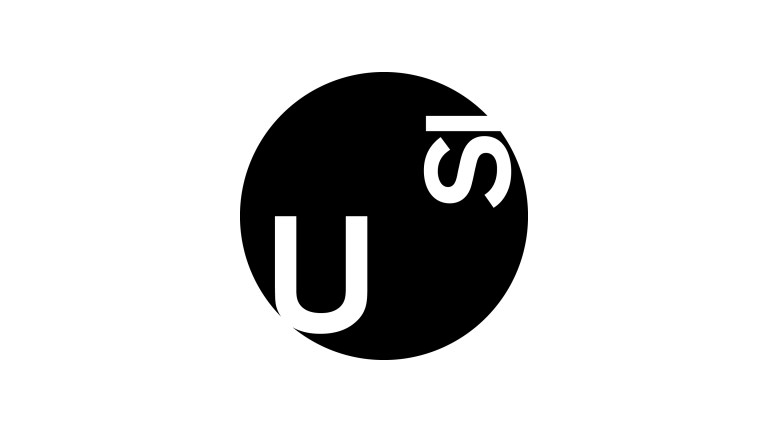
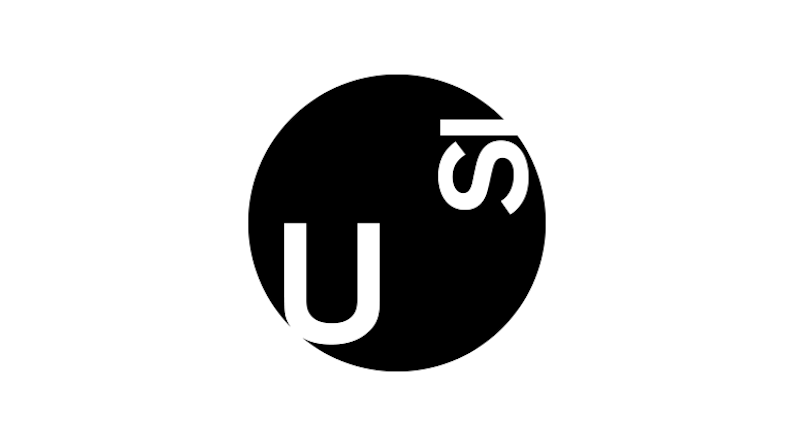
Added career-step by UNIGE. Resized images in career page.

diff --git a/src/pages/career/Career.js b/src/pages/career/Career.js
@@ -6,16 +6,31 @@ import BPParagraph from "../../components/paragraph/BPParagraph";
 import './Career.css';
 import {Image, Row, Col} from "react-bootstrap";
 
-import CPC from './img/cpc.jpg'
 import Army from './img/army.png'
 import SUPSI from './img/supsi.png'
 import USI from './img/usi.png'
+import UNIGE from './img/unige.png'
 
 class Career extends React.Component {
 
     render() {
         return (
             <div>
+                <div className={"career-step"}>
+                    <Row>
+                        <Col className={"text-center"}>
+                            <Image src={UNIGE} fluid/>
+                        </Col>
+                    </Row>
+                    <BPTitle className={"bp-title-career"}
+                             text={"Ph.D. Student in Machine Learning (2021-)"}/>
+                    <BPParagraph size={"150%"}
+                                 text={
+                                     "Starting on November 1st, 2021, I will join the Stochastic Information Processing (SIP) group by the University of Geneva, Switzerland, as a Ph.D. Student in Machine Learning and Computer Vision."
+                                 }
+                    />
+                </div>
+
                 <div className={"career-step"}>
                     <Row>
                         <Col className={"text-center"}>
@@ -78,21 +93,6 @@ class Career extends React.Component {
                                  }
                     />
                 </div>
-
-                <div className={"career-step"}>
-                    <Row>
-                        <Col className={"text-center"}>
-                            <Image src={CPC} fluid/>
-                        </Col>
-                    </Row>
-                    <BPTitle className={"bp-title-career"} text={"Commercial High School (2010 - 2014)"}/>
-                    <BPParagraph size={"150%"}
-                                 text={
-                                     "From september 2010 to september 2014 I have studied in the Commercial High School of Lugano (CPC - Centro Professionale Commerciale) where I obtained both the AFC (Attestato federale di capacità) degree and the commercial federal maturity degree (MFC - Maturità Federale Commerciale)."
-                                 }
-                    />
-                </div>
-
             </div>
         );
     }

diff --git a/src/pages/career/Career.css b/src/pages/career/Career.css
@@ -3,9 +3,6 @@
 }
 
 .career-step{
-    margin-bottom: 300px;
-}
-
-#army_img{
-    width: 600px;
+    margin-top: 200px;
+    margin-bottom: 200px;
 }
